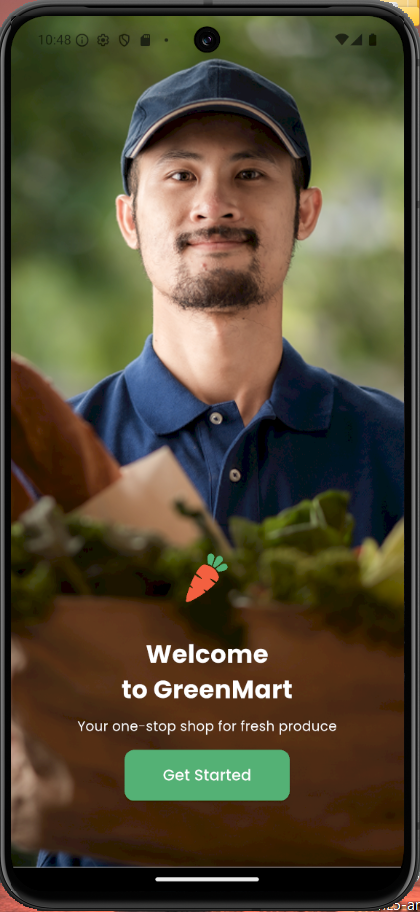
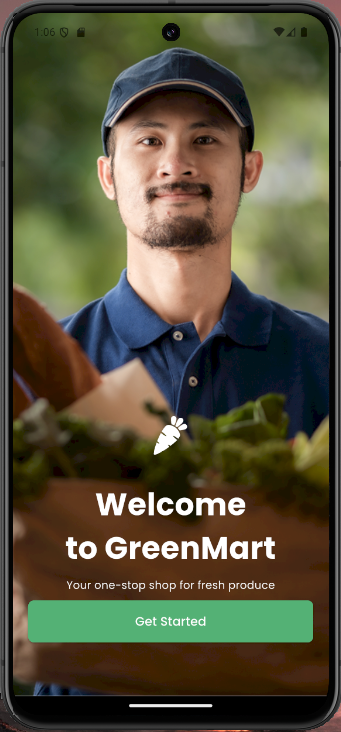
make some changes in design

diff --git a/grenn_mart/lib/features/intro/welcome_screen.dart b/grenn_mart/lib/features/intro/welcome_screen.dart
@@ -4,6 +4,7 @@ import 'package:grenn_mart/core/constants/app_images.dart';
 import 'package:grenn_mart/core/styles/colors.dart';
 import 'package:grenn_mart/core/styles/text_style.dart';
 import 'package:grenn_mart/core/styles/text_style.dart';
+import 'package:grenn_mart/core/widgets/main_button.dart';
 
 class WelcomeScreen extends StatefulWidget {
   const WelcomeScreen({super.key});
@@ -30,11 +31,17 @@ class _WelcomeScreenState extends State<WelcomeScreen> {
 
             Positioned(
               bottom: 70,
-              right: 0,
-              left: 0,
+              right: 20,
+              left: 20,
               child: Column(
                 children: [
-                  SvgPicture.asset(AppImages.carrotSvg),
+                  SvgPicture.asset(
+                    AppImages.carrotSvg,
+                    colorFilter: ColorFilter.mode(
+                      AppColors.backgroundColor,
+                      BlendMode.srcIn,
+                    ),
+                  ),
                   SizedBox(height: 35),
                   Text(
                     "Welcome\nto GreenMart",
@@ -49,24 +56,8 @@ class _WelcomeScreenState extends State<WelcomeScreen> {
                       color: AppColors.backgroundColor,
                     ),
                   ),
-                  SizedBox(height: 15),
-                  ElevatedButton(
-                    style: ElevatedButton.styleFrom(
-                      backgroundColor: AppColors.primaryColor,
-                      padding: EdgeInsets.symmetric(
-                        horizontal: 40,
-                        vertical: 15,
-                      ),
-                      shape: RoundedRectangleBorder(
-                        borderRadius: BorderRadius.circular(10),
-                      ),
-                    ),
-                    onPressed: () {},
-                    child: Text(
-                      "Get Started",
-                      style: TextStyles.body.copyWith(color: Colors.white),
-                    ),
-                  ),
+                  SizedBox(height: 10),
+                  main_button(text: "Get Started"),
                 ],
               ),
             ),

diff --git a/grenn_mart/lib/main.dart b/grenn_mart/lib/main.dart
@@ -22,6 +22,16 @@ class MainApp extends StatelessWidget {
           seedColor: AppColors.primaryColor,
           onSurface: AppColors.blackColor,
         ),
+        elevatedButtonTheme: ElevatedButtonThemeData(
+          style: ElevatedButton.styleFrom(
+            backgroundColor: AppColors.primaryColor,
+            foregroundColor: Colors.white,
+            minimumSize: Size(double.infinity, 55),
+            shape: RoundedRectangleBorder(
+              borderRadius: BorderRadius.circular(8),
+            ),
+          ),
+        ),
       ),
       builder: (context, child) {
         return SafeArea(

diff --git a/grenn_mart/lib/core/widgets/main_button.dart b/grenn_mart/lib/core/widgets/main_button.dart
@@ -1,0 +1,15 @@
+import 'package:flutter/material.dart%20';
+import 'package:grenn_mart/core/styles/text_style.dart';
+
+class main_button extends StatelessWidget {
+  const main_button({super.key, required this.text});
+  final String text;
+
+  @override
+  Widget build(BuildContext context) {
+    return ElevatedButton(
+      onPressed: () {},
+      child: Text(text, style: TextStyles.body.copyWith(color: Colors.white)),
+    );
+  }
+}

diff --git a/grenn_mart/lib/core/styles/text_style.dart b/grenn_mart/lib/core/styles/text_style.dart
@@ -3,7 +3,7 @@ import 'package:flutter/material.dart';
 
 abstract class TextStyles {
   static const TextStyle headline = TextStyle(
-    fontSize: 26,
+    fontSize: 40,
     fontWeight: FontWeight.w700,
     // color: AppColors.primaryGreen,
   );
